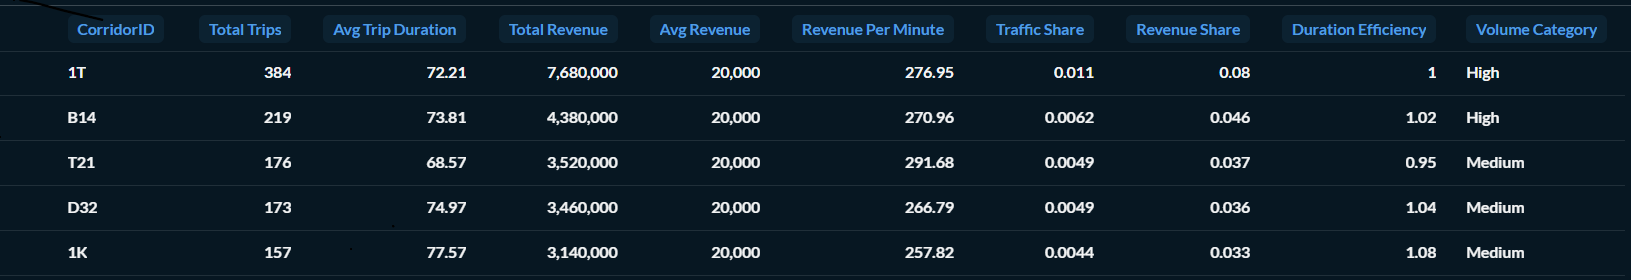
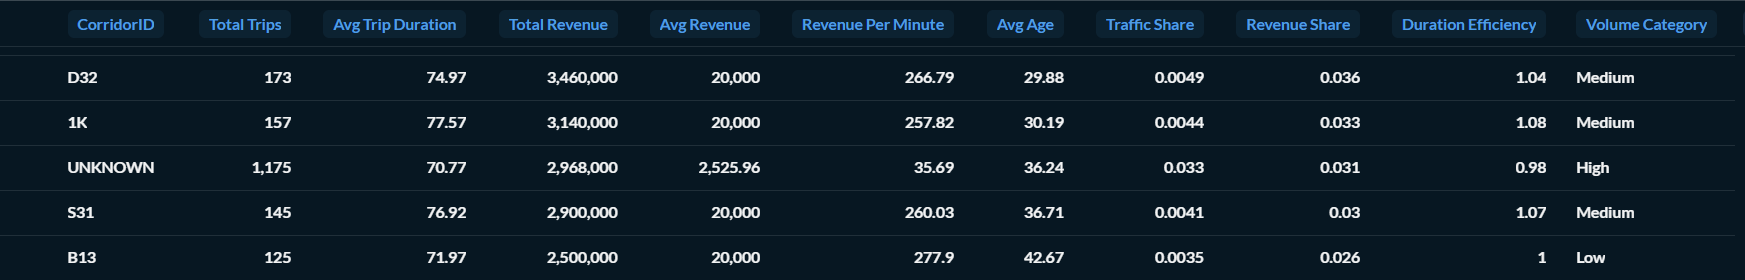
fix avg age and change assets

diff --git a/src/gold_layer.py b/src/gold_layer.py
@@ -9,11 +9,11 @@ def gold_layer():
     corridor_summary = (
         df.groupby('corridorID').agg(
             total_trips = ('transID', 'count'),
-            avg_age = ('age', 'mean'),
             avg_trip_duration = ('trip_duration_minutes', 'mean'),
             total_revenue = ('payAmount', 'sum'),
             avg_revenue = ('payAmount', 'mean'),
-            revenue_per_minute = ('payAmount', lambda x: (x.sum() / df.loc[x.index, 'trip_duration_minutes'].sum()) if df.loc[x.index, 'trip_duration_minutes'].sum() > 0 else 0)
+            revenue_per_minute = ('payAmount', lambda x: (x.sum() / df.loc[x.index, 'trip_duration_minutes'].sum()) if df.loc[x.index, 'trip_duration_minutes'].sum() > 0 else 0),
+            avg_age=('age', 'mean')
         )
         .reset_index()
     )
@@ -29,6 +29,7 @@ def gold_layer():
     corridor_summary['duration_efficiency'] = (
         corridor_summary.avg_trip_duration / corridor_summary.avg_trip_duration.mean()
     )
+
 
     corridor_summary['volume_category'] = pd.qcut(
         corridor_summary.total_trips,
@@ -49,6 +50,8 @@ def gold_layer():
         if_exists='replace',
         index=False
     )
+
+    print(f"Data transformed and saved to 'gold_layer' successfully.")
 
 if __name__ == "__main__":
     gold_layer()
